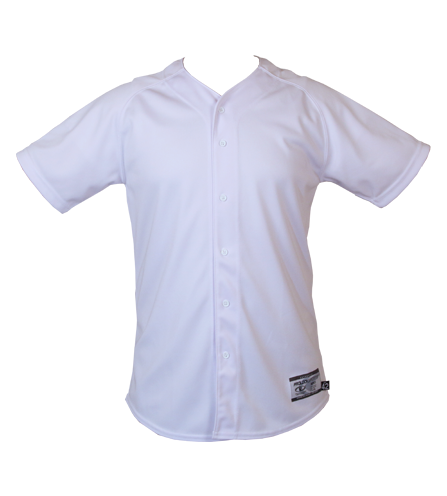
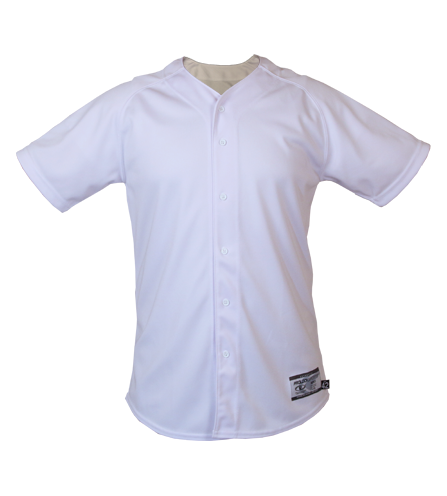
Setup Four Views, Refactor, Apply Change Color On Every View, Update thumbnails on change properties

diff --git a/public/uniform-builder/js/uniform-builder.js b/public/uniform-builder/js/uniform-builder.js
@@ -78,6 +78,8 @@
 
     /* End Popover Test */
 
+    /* Setup Views */
+
 
         window.two_d = {};
         window.two_d.objects = {};
@@ -86,38 +88,51 @@
         window.two_d.canvas_back = new fabric.Canvas('back_view');
         window.two_d.canvas_right = new fabric.Canvas('right_view');
         window.two_d.canvas_left = new fabric.Canvas('left_view');
-
         
+        window.two_d.load_base = function(filename, canvas, object_name){
 
-        fabric.util.loadImage('/images/builder-assets/jersey-front.png', function (image) {
+            fabric.util.loadImage(filename, function (image) {
                     
-            materialOption = new fabric.Image(image);
+                materialOption = new fabric.Image(image);
 
-            materialOption.set({
+                materialOption.set({
 
-                top: 0,
-                left: 0,
-                width: 447,
-                height: 496,
-                angle: 0,
-                opacity: 1, 
+                    top: 0,
+                    left: 0,
+                    width: 447,
+                    height: 496,
+                    angle: 0,
+                    opacity: 1, 
 
+                });
+
+                window.two_d.objects[object_name] = materialOption;
+                canvas.add(materialOption).renderAll(); 
+                                            
             });
 
-            window.two_d.objects['jersey_front'] = materialOption;
-            window.two_d.canvas_front.add(materialOption).renderAll(); 
-                                    
-        });
+        }
+
+
+        window.two_d.load_base('/images/builder-assets/jersey-front.png', window.two_d.canvas_front, 'jersey_front')
+        window.two_d.load_base('/images/builder-assets/jersey-back.png', window.two_d.canvas_back, 'jersey_back')
+        window.two_d.load_base('/images/builder-assets/jersey-right.png', window.two_d.canvas_right, 'jersey_right')
+        window.two_d.load_base('/images/builder-assets/jersey-left.png', window.two_d.canvas_left, 'jersey_left');
 
 
         $('.change-color').on('click', function(e){
           
-           var canvas = window.two_d.canvas_front;
 
            var color = $(this).data('color');
 
-            window.two_d.objects['jersey_front'].filters = []; 
-            window.two_d.objects['jersey_front'].applyFilters(canvas.renderAll.bind(canvas));
+           if(color === "#000000"){ 
+
+                color = "#2f2f2f"; 
+                /// Lighter Black, TODO: Fix this
+
+           }
+
+            window.two_d.apply_filters(true);
 
             var filter = new fabric.Image.filters.Blend({
 
@@ -127,13 +142,109 @@
             });
 
             window.two_d.objects['jersey_front'].filters.push(filter);
-            window.two_d.objects['jersey_front'].applyFilters(canvas.renderAll.bind(canvas));
+            window.two_d.objects['jersey_back'].filters.push(filter);
+            window.two_d.objects['jersey_left'].filters.push(filter);
+            window.two_d.objects['jersey_right'].filters.push(filter);
 
+            window.two_d.apply_filters();
+            
         }); 
 
-        $('canvas#back_view').hide();
-        $('canvas#left_view').hide();
-        $('canvas#right_view').hide();
+
+        window.two_d.apply_filters = function(clear){
+
+            if (clear !== undefined) {
+
+                window.two_d.objects['jersey_front'].filters = []; 
+                window.two_d.objects['jersey_back'].filters = []; 
+                window.two_d.objects['jersey_left'].filters = []; 
+                window.two_d.objects['jersey_right'].filters = []; 
+
+            }    
+
+            var canvas = window.two_d.canvas_front;
+            window.two_d.objects['jersey_front'].applyFilters(canvas.renderAll.bind(canvas));
+
+            canvas = window.two_d.canvas_back;
+            window.two_d.objects['jersey_back'].applyFilters(canvas.renderAll.bind(canvas));
+            
+            canvas = window.two_d.canvas_left;
+            window.two_d.objects['jersey_left'].applyFilters(canvas.renderAll.bind(canvas));
+
+            canvas = window.two_d.canvas_right;
+            window.two_d.objects['jersey_right'].applyFilters(canvas.renderAll.bind(canvas));
+
+            setTimeout(function(){
+
+                window.two_d.refresh_thumbnail_views();
+
+            }, 50);
+
+        }
+
+
+ 
+        window.two_d.canvas_front.on('object:added', function(options) {
+
+            window.two_d.refresh_thumbnail_views();
+
+        });
+
+        window.two_d.canvas_back.on('object:added', function(options) {
+
+            window.two_d.refresh_thumbnail_views();
+
+        });
+
+        window.two_d.canvas_left.on('object:added', function(options) {
+
+            window.two_d.refresh_thumbnail_views();
+
+        });
+
+        window.two_d.canvas_right.on('object:added', function(options) {
+
+            window.two_d.refresh_thumbnail_views();
+
+        });
+
+
+
+        /// Refresh Thumbnail Views ///
+
+        window.two_d.refresh_thumbnail_views = function(){
+
+            $('a#view_front > img').attr('src', window.two_d.canvas_front.toDataURL('image/png'));
+            $('a#view_back > img').attr('src', window.two_d.canvas_back.toDataURL('image/png'));
+            $('a#view_left > img').attr('src', window.two_d.canvas_left.toDataURL('image/png'));
+            $('a#view_right > img').attr('src', window.two_d.canvas_right.toDataURL('image/png'));
+
+
+        }
+
+
+        /// Camera Views
+
+            $('a.change-view').on('click', function(e){
+
+                var view = $(this).data('view');
+
+                $('#front_view').parent().fadeOut();
+                $('#back_view').parent().fadeOut();
+                $('#left_view').parent().fadeOut();
+                $('#right_view').parent().fadeOut();
+                
+                $('#' + view + '_view').parent().fadeIn(); // fade in the parent container not the actual canvas
+                
+
+            });
+
+
+
+        /// End Camera Views
+
+
+    /* End Setup Views */    
 
 
  });   

diff --git a/resources/assets/less/uniform-builder.less b/resources/assets/less/uniform-builder.less
@@ -110,7 +110,8 @@
         
             div.pane-top {
 
-                width: 100%;
+                width: 90%;
+                text-align: center;
 
             }
 
@@ -171,14 +172,59 @@
 
             div#left-main-window {
 
-               /* background-image: url('/images/test-images/canvas.png'); */
+                overflow: hidden;
 
             }
 
 
         }
 
+        div#left-main-window {
+
+            canvas#canvas-views {
+
+                position: absolute;
+
+            }
+
+        }
+
     /* End Left Pane - Main Canvas */
+
+    /* Camera Views */
+
+        div#camera-views {
+
+            float: right;
+            text-align: center;
+            width: 90%;
+            padding: 3px;
+
+            a {
+
+                color: @text_color;
+                width: 63px;
+                height: 70px;
+                border: 2px solid #b3b3b3;
+                border-radius: 0px;
+                text-align: center;
+
+                padding: 0;
+
+                img {
+
+                    width: 100%;
+                    height: 100%;
+
+
+                }
+
+            }
+
+
+        }
+
+    /* End Camera Views */
 
 
     /* Right Pane - Property Customizer */
@@ -339,6 +385,13 @@
 
         }
 
+
+
+
+
+
     /* End Canvas */
+
+    
 
 

diff --git a/public/uniform-builder/css/uniform-builder.css b/public/uniform-builder/css/uniform-builder.css
@@ -56,7 +56,8 @@ div#main_container div#main-row div#right-pane-column {
 /* End Main Container */
 /* Generic Panes */
 div.pane div.pane-top {
-  width: 100%;
+  width: 90%;
+  text-align: center;
 }
 div.pane div.pane-sidebar {
   float: left;
@@ -88,9 +89,33 @@ a.active_button {
 /* End UI Generic */
 /* Left Pane - Main Canvas */
 div#left-pane div#left-main-window {
-  /* background-image: url('/images/test-images/canvas.png'); */
+  overflow: hidden;
+}
+div#left-main-window canvas#canvas-views {
+  position: absolute;
 }
 /* End Left Pane - Main Canvas */
+/* Camera Views */
+div#camera-views {
+  float: right;
+  text-align: center;
+  width: 90%;
+  padding: 3px;
+}
+div#camera-views a {
+  color: #3d3d3d;
+  width: 63px;
+  height: 70px;
+  border: 2px solid #b3b3b3;
+  border-radius: 0px;
+  text-align: center;
+  padding: 0;
+}
+div#camera-views a img {
+  width: 100%;
+  height: 100%;
+}
+/* End Camera Views */
 /* Right Pane - Property Customizer */
 /* End Right Pane - Property Customizer */
 /* Options Panel */

diff --git a/resources/views/editor/uniform-builder-index.blade.php b/resources/views/editor/uniform-builder-index.blade.php
@@ -11,22 +11,23 @@
 
         </div>
 
+      
         <div id="left-sidebar" class="pane-sidebar">
             
                             
-            <a href="" class="sidebar-buttons" data-filename='materials'>
+            <a class="sidebar-buttons" data-filename='materials'>
                 <img src="images/sidebar/new.png">
             </a>
 
-            <a href="" class="sidebar-buttons" data-filename='colors'>
+            <a class="sidebar-buttons" data-filename='colors'>
                 <img src="images/sidebar/load.png">
             </a>
 
-            <a href="" class="sidebar-buttons" data-filename='gradient'>
+            <a class="sidebar-buttons" data-filename='gradient'>
                 <img src="images/sidebar/compare.png">
             </a>
 
-            <a href="" class="sidebar-buttons" data-filename='patterns'>
+            <a class="sidebar-buttons" data-filename='patterns'>
                 <img src="images/sidebar/save.png">
             </a>
 
@@ -36,27 +37,37 @@
 
         <div id="left-main-window" class="pane-main-window">
         
-              <canvas id="front_view" width="447" height="496">
+              <canvas class="canvas-views" id="front_view" width="447" height="496">
                     
               </canvas>          
 
-              <canvas id="back_view" width="447" height="496">
+              <canvas class="canvas-views" id="back_view" width="447" height="496">
 
               </canvas>          
 
-              <canvas id="left_view" width="447" height="496">
+              <canvas  class="canvas-views" id="left_view" width="447" height="496">
 
               </canvas>
 
-              <canvas id="right_view" width="447" height="496">
+              <canvas class="canvas-views" id="right_view" width="447" height="496">
 
-              </canvas>          
-          
+              </canvas>
+    
         </div>
 
+        <div id="camera-views" class="">
+    
+            <a class="btn change-view" data-view="front" id="view_front"><img src=""></a>
+            <a class="btn change-view" data-view="back"  id="view_back"><img src=""></a>
+            <a class="btn change-view" data-view="left"  id="view_left"><img src=""></a>
+            <a class="btn change-view" data-view="right" id="view_right"><img src=""></a>
+
+        </div>
+    
 
     </div>
-        
+
+
 @endsection('left-pane')
 
 
